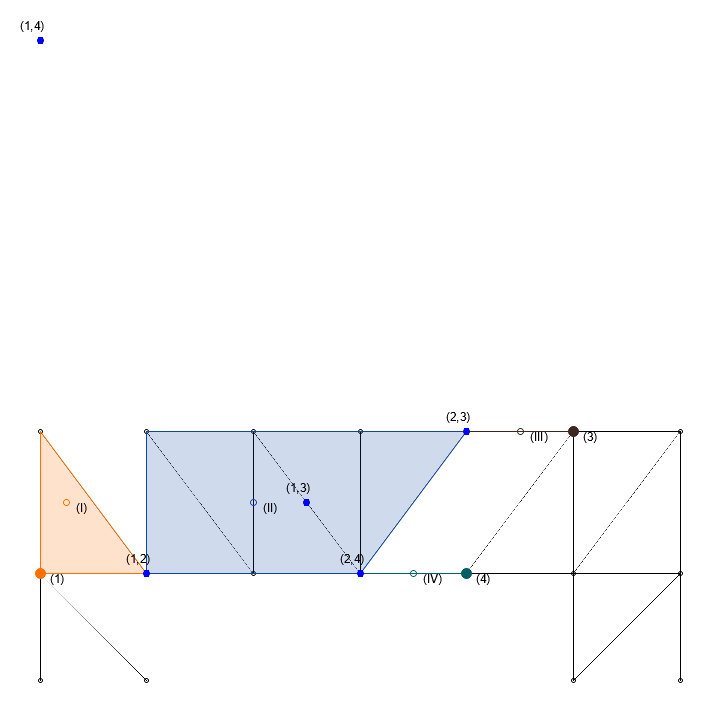
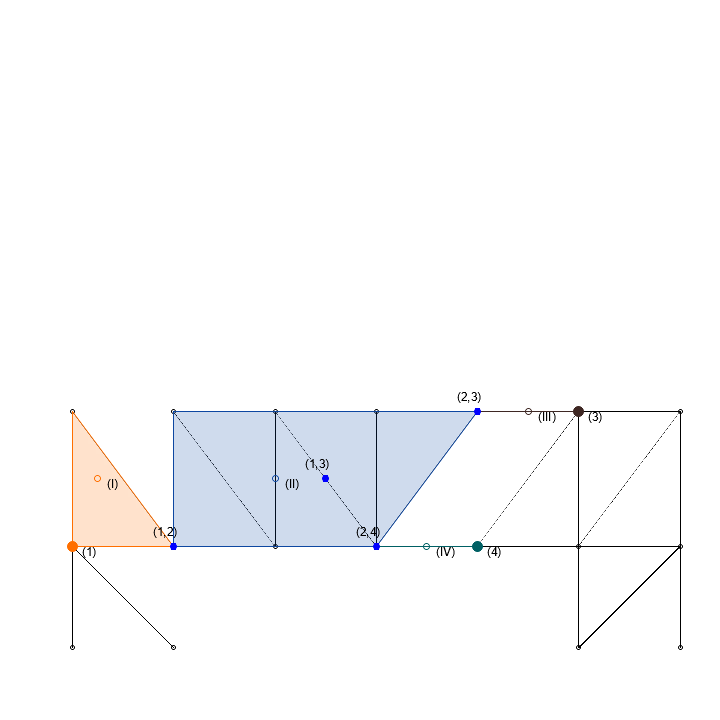
switch to homogenious coordinates

diff --git a/Traglast/src/main.rs b/Traglast/src/main.rs
@@ -9,7 +9,7 @@ use visualisation::visualise;
 type DAdjUsize = OMatrix<usize, Dynamic, Dynamic>;
 type DMatrixf64 = OMatrix<f64, Dynamic, Dynamic>;
 type DVectorf64 = OVector<f64, Dynamic>;
-type S2x2 = SMatrix<f64, 2, 2>;
+type S3x3 = SMatrix<f64, 2, 2>;
 type S2 = SVector<f64, 2>;
 type S3 = SVector<f64, 3>;
 
@@ -28,10 +28,10 @@ pub struct Point {
 }
 
 #[derive(Clone, PartialEq, Debug)]
-pub struct Pol {
-    pub is_at_infinity: bool,
+pub struct Pol { // Angegeben in homogenen Koordiaten
     pub x: f64,
     pub y: f64,
+    pub z: f64
 }
 
 #[derive(Debug, Clone, Hash, PartialEq)]
@@ -100,121 +100,95 @@ impl Polschlussregel {
 
 impl fmt::Display for Pol {
     fn fmt(&self, f: &mut fmt::Formatter<'_>) -> fmt::Result {
-        if self.x.is_nan() {
-            write!(f, "()")
-        } else {
+
             write!(
                 f,
-                "({0}, {1:.4}, {2:.4})",
-                if self.is_at_infinity { "Inf" } else { "000" },
+                "({0:.4}, {1:.4}, {2:.4})",
                 self.x,
-                self.y
+                self.y,
+                self.z
             )
-        }
+
     }
 }
 
 impl Pol {
+    fn new_not_existing() -> Self {
+        return Pol {
+            x: 0.0,
+            y: 0.0,
+            z: 0.0
+        };
+    }
     fn new(infty: bool, x: f64, y: f64) -> Self {
-        Pol {
-            is_at_infinity: infty,
+        if infty {Pol {
             x,
             y,
+            z: 0.0
+        }}
+        else {
+            Pol {
+            x,
+            y,
+            z: 1.0
+        }
         }
     }
     fn exists(&self) -> bool {
-        return !self.x.is_nan() && !self.y.is_nan();
+        return !((self.x == 0.0) && (self.y == 0.0) && (self.z == 0.0))
     }
     fn is_same(&self, other: &Pol) -> bool {
-        if (!self.is_at_infinity && other.is_at_infinity)
-            || (!self.is_at_infinity && other.is_at_infinity)
-        {
-            return false;
-        } // einer unendlich, der andere nicht
-        if self.is_at_infinity && other.is_at_infinity {
-            // beide unendlich
-            return (self.x * other.y - other.y * self.x).abs() < 1e16;
-        }
-        return (self.x - other.x).abs() < 1e-16 && (self.y - other.y).abs() < 1e-16;
+
+        let sv = S3::new(self.x, self.y, self.z);
+        let ov = S3::new(other.x, other.y, other.z);
+        let sv_max = sv.max();
+        let ov_max = ov.max();
+        let max = sv_max.max(ov_max);
+
+        let cv = sv.cross(&ov);
+        //println!("{},{}",cv.norm()/max < 1e-16, cv);
+        return cv.norm()/max < 1e-10;
     }
 }
 impl Pol {
     fn infer(p1: &Pol, p2: &Pol, q1: &Pol, q2: &Pol) -> Option<Self> {
-        let a_stuetz = if p1.is_at_infinity && !p2.is_at_infinity {
-            // Annahme, p1 oder p2 sind endlich
-            (p2.x, p2.y)
+        let p1v = S3::new(p1.x, p1.y, p1.z);
+        let p2v = S3::new(p2.x, p2.y, p2.z);
+        let q1v = S3::new(q1.x, q1.y, q1.z);
+        let q2v = S3::new(q2.x, q2.y, q2.z);
+        // deriving the planes of possible points
+        let eb1 = p1v.cross(&p2v);
+        let eb2 = q1v.cross(&q2v);
+        // schnitt der ebenen
+        let result = eb1.cross(&eb2);
+        if result[0] == 0.0 && result[1] == 0.0 && result[2] == 0.0 { // es gibt keinen Schnittpunkt (bzw. ist der unendliche Fernpunkt)
+            return None
+        }
+        let result = result.normalize();
+        return Some(Pol {
+            x: result[0],
+            y: result[1],
+            z: result[2]
+        });
+    }
+    fn is_at_infinity(&self) -> bool {
+        return self.z == 0.0;
+    }
+    fn get_real_coordinates(&self) -> (f64,f64) {
+        if self.z != 0.0 {
+            return (self.x/self.z, self.y/self.z);
+        } else if self.x != 0.0 {
+            return (self.y / self.x , f64::INFINITY);
         } else {
-            (p1.x, p1.y)
-        };
-        let a_richtung = if p1.is_at_infinity {
-            (p1.x, p1.y)
-        } else if p2.is_at_infinity {
-            (p2.x, p2.y)
-        } else {
-            (p1.x - p2.x, p1.y - p2.y)
-        };
-
-        let b_stuetz = if q1.is_at_infinity && !q2.is_at_infinity {
-            (q2.x, q2.y)
-        } else {
-            (q1.x, q1.y)
-        };
-        let b_richtung = if q1.is_at_infinity {
-            (q1.x, q1.y)
-        } else if q2.is_at_infinity {
-            (q2.x, q2.y)
-        } else {
-            (q1.x - q2.x, q1.y - q2.y)
-        };
-
-        let mut mat = S2x2::zeros();
-        let mut bvec = S2::zeros();
-
-        mat[(0, 0)] = -a_richtung.1;
-        mat[(0, 1)] = a_richtung.0;
-        mat[(1, 0)] = -b_richtung.1;
-        mat[(1, 1)] = b_richtung.0;
-
-        bvec[0] = a_stuetz.0 * mat[(0, 0)] + a_stuetz.1 * mat[(0, 1)];
-        bvec[1] = b_stuetz.0 * mat[(1, 0)] + b_stuetz.1 * mat[(1, 1)];
-
-        let det = mat.determinant();
-
-        if det.abs() != 0.0 {
-            let new = mat.full_piv_lu().solve(&bvec).unwrap();
-            return Some(Pol::new(false, new[0], new[1]));
-        } else { // Determinante ist null es herscht parallelität oder identisch sein
-            let mut rvec = S2::zeros();
-            rvec[0] = a_stuetz.0 - b_stuetz.0;
-            rvec[1] = a_stuetz.1 - b_stuetz.1;
-            // (self.x * other.y - other.y * self.x).abs() < 1e16;
-            if (rvec[0] * b_richtung.1 - rvec[1] * b_richtung.0).abs() < 1e-16 {
-                println!("{},{},{},{}",p1,p2,q1,q2);
-                return None;
-            }
-            //
-            let new_x = b_richtung.0;
-            let new_y = b_richtung.1;
-            //println!("{},{},{},{}, [{},{}]",p1,p2,q1,q2,new_x,new_y);
-            return Some(Pol::new(true, new_x, new_y));
+            return (f64::INFINITY,f64::INFINITY);
         }
     }
-
     fn distance(&self, other: &Pol) -> f64 {
-        if !self.is_at_infinity && !other.is_at_infinity {
+        if !(self.z == 0.0) && !(other.z == 0.0) {
             return ((self.x - other.x).powi(2) + (self.y - other.y).powi(2)).sqrt();
         } else {
             return f64::INFINITY;
         }
-    }
-
-    fn is_between(&self, other: &Pol, another: &Pol) -> bool {
-        return ((!other.is_at_infinity && other.is_at_infinity)
-            || (other.is_at_infinity && !other.is_at_infinity))
-            || ((other.x..=another.x).contains(&self.x)
-                || (another.x..=other.x).contains(&self.x))
-                && ((other.y..=another.y).contains(&self.y)
-                    || (another.y..=other.y).contains(&self.y));
     }
 }
 
@@ -799,7 +773,7 @@ fn polplan(
 
     'se_big_loop: loop {
         let end = rigid.len() - 1;
-        mat = DCoordMat::from_element(end, end, Pol::new(false, f64::NAN, f64::NAN));
+        mat = DCoordMat::from_element(end, end, Pol::new_not_existing());
 
         //println!("{:?}", rigid);
 
@@ -926,15 +900,15 @@ fn kinematik(polplan: &DCoordMat) -> DMatrixf64 {
                 let hp1 = &polplan[(unabhaengig, unabhaengig)];
                 let np = &polplan[(unabhaengig, i)];
                 let hp2 = &polplan[(i, i)];
-                if np.is_at_infinity {
+                if np.is_at_infinity() {
                     //println!("Nebenpol im Unendlichen!");
                     lin_op[(i, unabhaengig)] = 1.0;
-                } else if hp1.is_at_infinity {
+                } else if hp1.is_at_infinity() {
                     // HP 1 ist im Unendlichen
                     // Es gibt keine Sinnvolle übersetzung von unendlich zu finit
                     // jedenfalls nicht im Anschauungsraum...
                     lin_op[(i, unabhaengig)] = 0.0;
-                } else if hp2.is_at_infinity {
+                } else if hp2.is_at_infinity() {
                     // HP 2 ist im Unendlichen
                     // Es gibt keine Sinnvolle übersetzung von unendlich zu finit
                     // jedenfalls nicht im Anschauungsraum...
@@ -943,12 +917,11 @@ fn kinematik(polplan: &DCoordMat) -> DMatrixf64 {
                     // Jetzt können die nur noch koplanar sein!
                     lin_op[(i, unabhaengig)] = 0.0;
                 } else if np.exists() {
-                    let sign = if np.is_between(hp1, hp2) { -1.0 } else { 1.0 };
-                    let phi_m = sign * np.distance(hp1) / np.distance(hp2);
+                    let phi_m = np.distance(hp1) / np.distance(hp2);
                     lin_op[(i, unabhaengig)] = phi_m;
                 }
             } else {
-                if polplan[(unabhaengig, unabhaengig)].is_at_infinity {
+                if polplan[(unabhaengig, unabhaengig)].is_at_infinity() {
                     // Im Unendlichen ergibt ein finiter Wert keinen Sinn!
                     lin_op[(unabhaengig, unabhaengig)] = 0.0;
                 } else {
@@ -958,7 +931,7 @@ fn kinematik(polplan: &DCoordMat) -> DMatrixf64 {
         }
     }
     let mut vec = DVectorf64::zeros(polplan.shape().0);
-    vec[0]=1.0;
+    //vec[0]=1.0;
     for i in 0..polplan.shape().0 {
         vec = &lin_op * vec;
     }

diff --git a/Traglast/src/visualisation.rs b/Traglast/src/visualisation.rs
@@ -208,9 +208,8 @@ fn draw_pole<DB: DrawingBackend>(
     let mut palette_iter = 0;
     for i in 0..pole.shape().0 {
         for j in i..pole.shape().1 {
-            let x = pole[(i, j)].x;
-            let y = pole[(i, j)].y;
-            let infty = pole[(i, j)].is_at_infinity;
+            let (x,y) = pole[(i, j)].get_real_coordinates();
+            let infty = pole[(i, j)].is_at_infinity();
             if i == j && !infty {
                 drawing_area
                     .draw(
@@ -279,7 +278,7 @@ pub fn visualise(
         min_y = min_y.min(i.y);
     }
     for i in polplan.iter() {
-        if !i.is_at_infinity {
+        if !i.is_at_infinity() {
             max_x = max_x.max(i.x);
             min_x = min_x.min(i.x);
             max_y = max_y.max(i.y);
